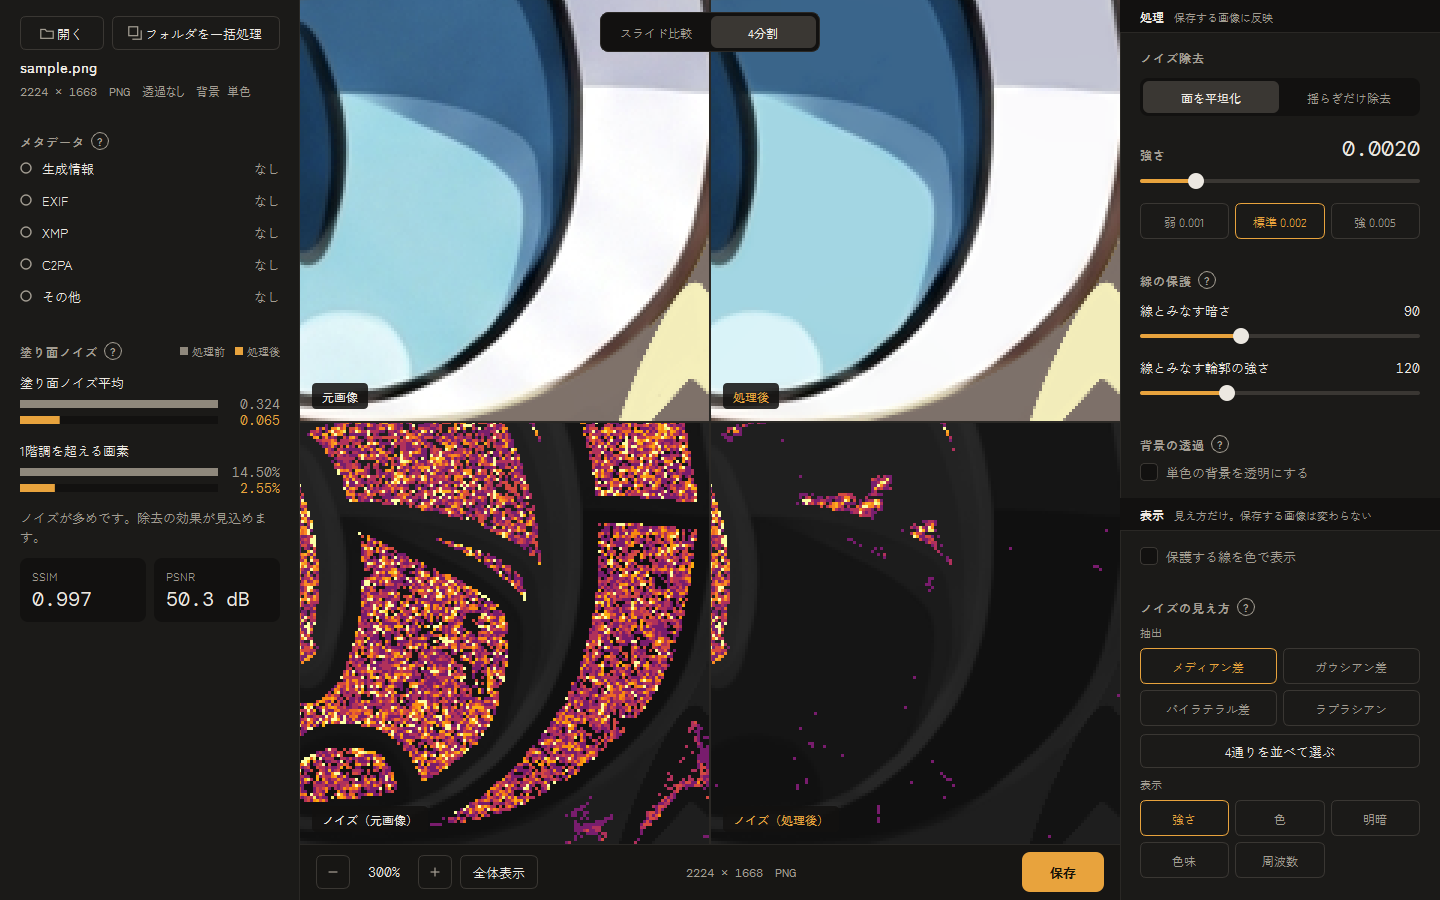
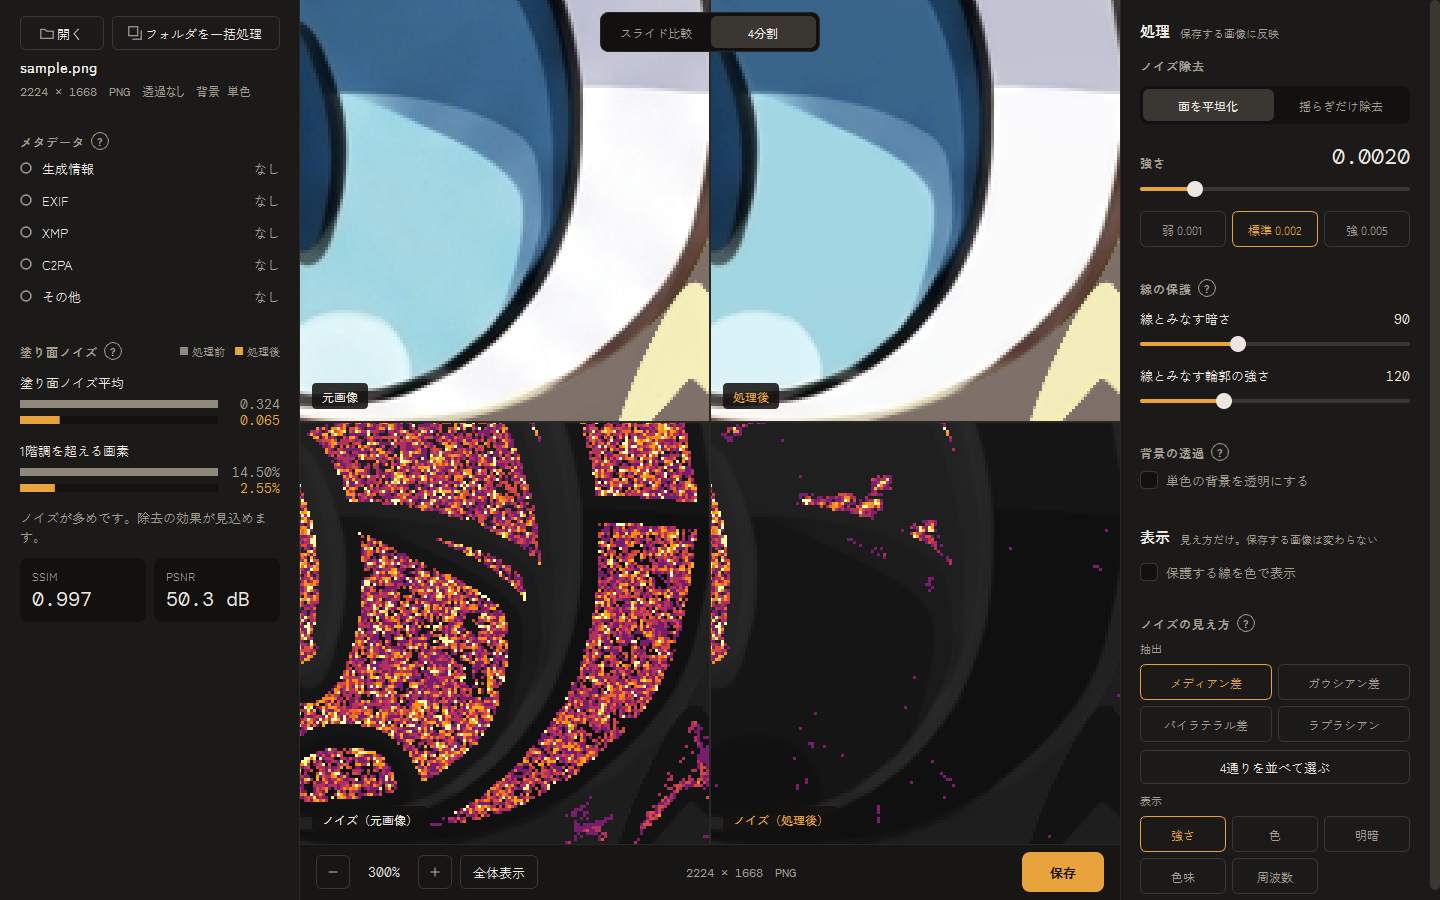
メタデータの要約をクリックで開くようにし、「処理」「表示」の見出しを帯でなくす
「内容をすべて見る」を外し、要約の枠にマウスを乗せると強調、クリックで内容を開く。
「処理」「表示」の見出しは暗い帯をやめ、パネルと同じ地に一段大きな見出しとして置く。

Changed region(s): [[0.7812, 0.0, 1.0, 0.9956], [0.8125, 0.9022, 0.9062, 0.9956], [0.7812, 0.8711, 0.8125, 0.9022]]

diff --git a/gui/info.py b/gui/info.py
@@ -7,7 +7,7 @@ from PySide6.QtWidgets import QFrame, QHBoxLayout, QVBoxLayout, QWidget
 
 import metadata as md
 from . import icons, score, theme
-from .widgets import Legend, MetricBars, StatTile, button, help_button, label
+from .widgets import ClickableLabel, Legend, MetricBars, StatTile, button, help_button, label
 
 META_PREVIEW_CHARS = 140
 META_SUMMARY_KEYS = ('シード値', 'モデル')   # 左パネルに出す生成設定
@@ -119,14 +119,10 @@ class InfoPanel(QFrame):
         self.meta_rows = {g: ValueRow(name) for g, (name, _) in md.GROUPS.items()}
         self.notes = label('', 'small')
         self.notes.setWordWrap(True)
-        self.meta_text = label('', 'metaBox')
+        self.meta_text = ClickableLabel('metaBox', 'クリックで内容をすべて表示')
         self.meta_text.setWordWrap(True)
         self.meta_text.setTextFormat(Qt.PlainText)
-        self.meta_view = button('内容をすべて見る', 'link')
-        self.meta_view.clicked.connect(self.metaRequested)
-        meta_row = QHBoxLayout()
-        meta_row.addWidget(self.meta_view)
-        meta_row.addStretch(1)
+        self.meta_text.clicked.connect(self.metaRequested)
 
         # 結果（塗り面ノイズの処理前後と、元の絵の保たれ具合）
         self.noise_mean = MetricBars('塗り面ノイズ平均', lambda v: f'{v:.3f}')
@@ -142,7 +138,7 @@ class InfoPanel(QFrame):
         legend = Legend([(theme.BAR_BEFORE, '処理前'), (theme.ACCENT, '処理後')])
 
         self.meta_box = _section(_titled('メタデータ', META_HELP), *self.meta_rows.values(), self.notes,
-                                 self.meta_text, meta_row, spacing=4)
+                                 self.meta_text, spacing=4)
         self.result_box = _section(_titled('塗り面ノイズ', NOISE_HELP, legend), self.noise_mean,
                                    self.noise_over, self.advice, tiles, spacing=12, last=True)
         lay = QVBoxLayout(self)
@@ -202,7 +198,6 @@ class InfoPanel(QFrame):
             summary = f'{e.key}: {value[:META_PREVIEW_CHARS]}' + ('…' if len(value) > META_PREVIEW_CHARS else '')
         self.meta_text.setText(summary)
         self.meta_text.setVisible(bool(summary))
-        self.meta_view.setVisible(bool(groups))
 
     def set_analysis(self, metrics, uniform_bg):
         """元画像の計測結果"""

diff --git a/gui/theme.py b/gui/theme.py
@@ -43,21 +43,21 @@ QToolTip { background: @SURFACE; color: @TEXT; border: 1px solid @BORDER_STRONG;
 #panel { background: @PANEL; border-left: 1px solid @BORDER; }
 #panel[side="left"] { border-left: none; border-right: 1px solid @BORDER; }
 #section { border-bottom: 1px solid @BORDER; }
-#group { background: @BG; border-bottom: 1px solid @BORDER; }
 #panelScroll { background: @PANEL; border: none; }
 
 QLabel { background: transparent; }
 QLabel[role="section"] { font-size: 12px; font-weight: 700; color: @MUTED; letter-spacing: 1px; }
 QLabel[role="muted"] { color: @MUTED; }
 QLabel[role="small"] { color: @MUTED; font-size: 11px; }
-QLabel[role="groupTitle"] { font-size: 12px; font-weight: 700; color: @TEXT; }
+QLabel[role="groupTitle"] { font-size: 15px; font-weight: 700; color: @TEXT; }
 QLabel[role="mono"] { font-family: '@FONT_MONO'; }
 QLabel[role="monoMuted"] { font-family: '@FONT_MONO'; font-size: 12px; color: @MUTED; }
 QLabel[role="bigValue"] { font-family: '@FONT_MONO'; font-size: 22px; }
 QLabel[role="tileValue"] { font-family: '@FONT_MONO'; font-size: 20px; }
 QLabel[role="fileName"] { font-size: 15px; font-weight: 700; }
 QLabel[role="metaBox"] { font-family: '@FONT_MONO', '@FONT_UI'; font-size: 11px; color: @MUTED;
-    background: @BG; border-radius: 6px; padding: 10px 12px; }
+    background: @BG; border: 1px solid transparent; border-radius: 6px; padding: 10px 12px; }
+QLabel[role="metaBox"]:hover { color: @TEXT; border-color: @ACCENT; }
 QLabel:disabled { color: @DISABLED; }
 
 

diff --git a/gui/widgets.py b/gui/widgets.py
@@ -23,6 +23,23 @@ def button(text, kind=None, checkable=False):
     return b
 
 
+class ClickableLabel(QLabel):
+    """クリックできる文字の枠。マウスを乗せると枠が強調される（スタイルは :hover で指定）"""
+    clicked = Signal()
+
+    def __init__(self, role, tooltip):
+        super().__init__()
+        self.setProperty('role', role)
+        self.setAttribute(Qt.WA_Hover)
+        self.setCursor(Qt.PointingHandCursor)
+        self.setToolTip(tooltip)
+
+    def mouseReleaseEvent(self, e):
+        if e.button() == Qt.LeftButton and self.rect().contains(e.position().toPoint()):
+            self.clicked.emit()
+        super().mouseReleaseEvent(e)
+
+
 def icon_button(name, tooltip):
     b = button('', 'icon')
     b.setIcon(icons.icon(name, 16))

diff --git a/gui/panel.py b/gui/panel.py
@@ -64,15 +64,14 @@ def _titled(text, help_text):
 
 def _group(title, note):
     """「処理」「表示」のまとまりの見出し"""
-    box = QFrame()
-    box.setObjectName('group')
+    box = QWidget()
     lay = QHBoxLayout(box)
-    lay.setContentsMargins(20, 8, 20, 8)
+    lay.setContentsMargins(20, 20, 20, 0)
     lay.setSpacing(10)
-    lay.addWidget(label(title, 'groupTitle'))
+    lay.addWidget(label(title, 'groupTitle'), 0, Qt.AlignBottom)
     sub = label(note, 'small')
     sub.setWordWrap(True)   # パネルの幅を押し広げないようにする
-    lay.addWidget(sub, 1)
+    lay.addWidget(sub, 1, Qt.AlignBottom)
     return box
 
 
